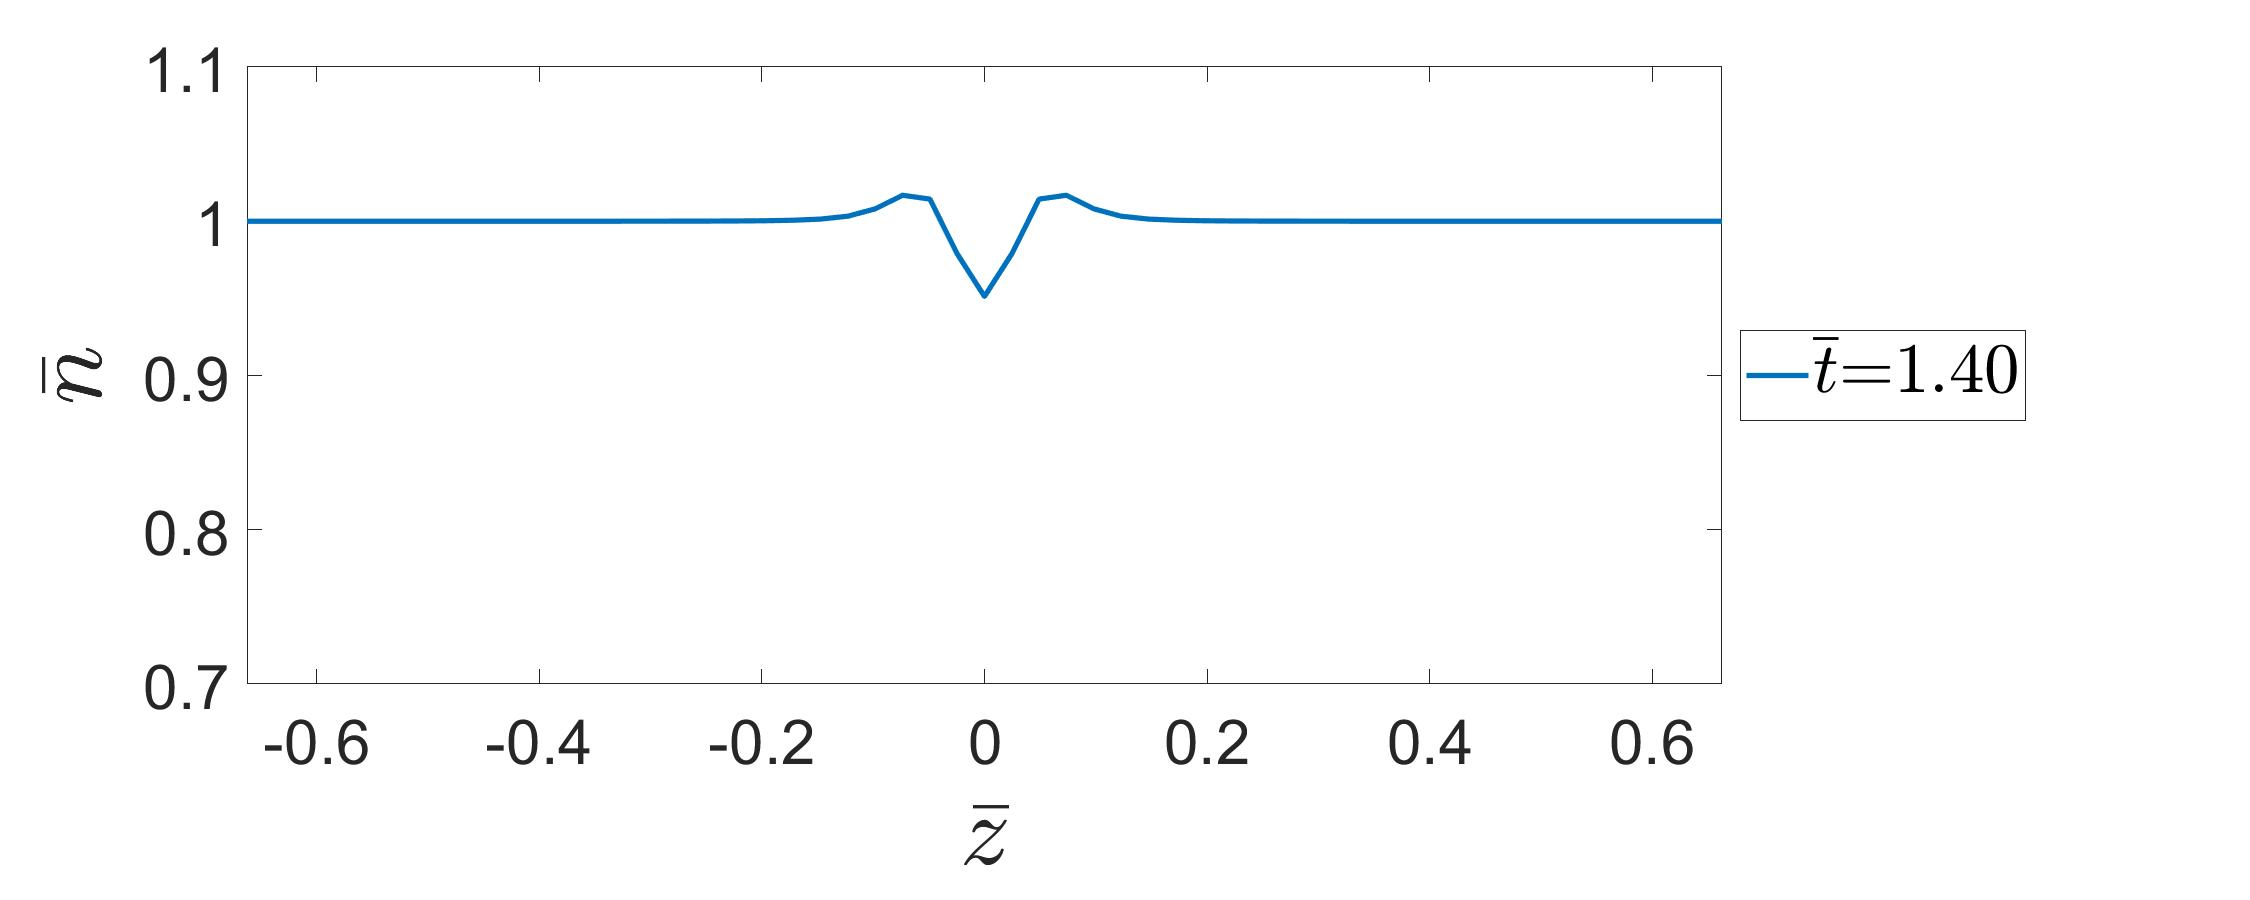
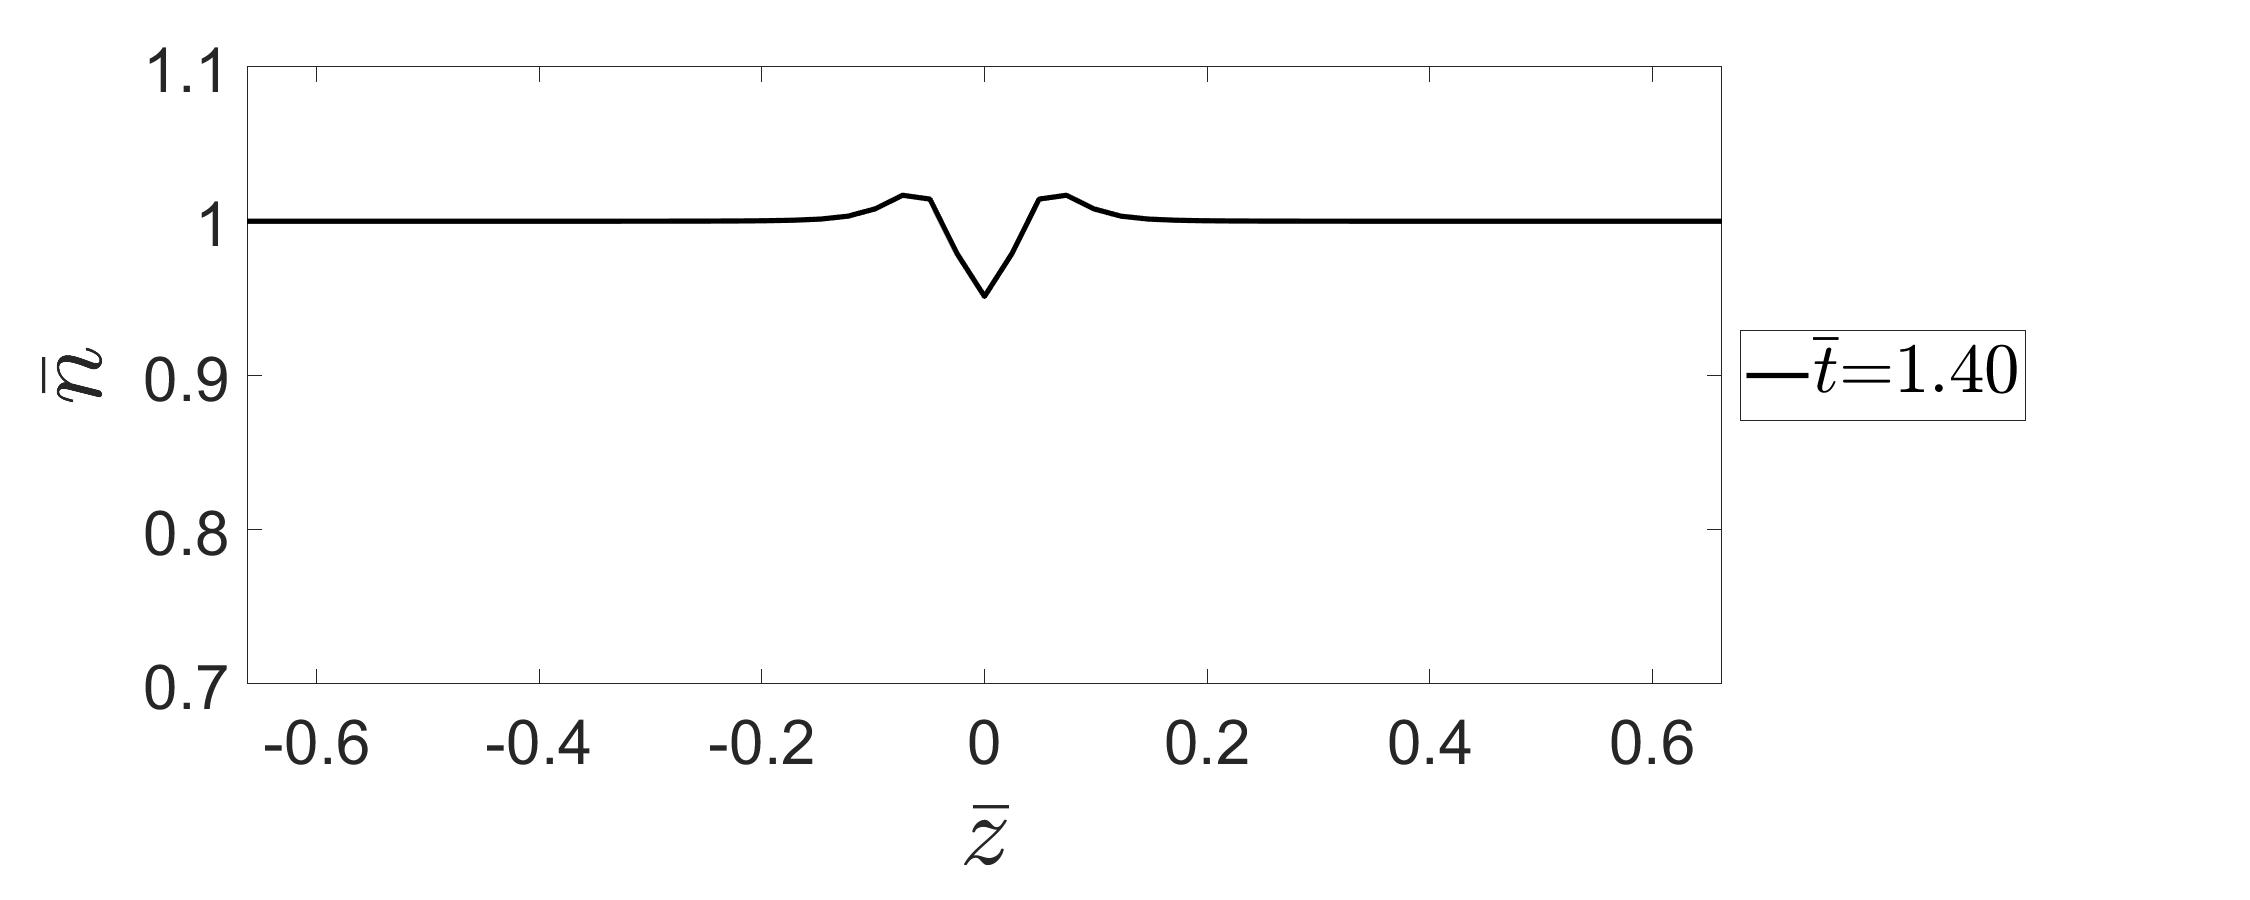
updated density animation

Changed region(s): [[0.0933, 0.2178, 0.7778, 0.3111], [0.7778, 0.4044, 0.8089, 0.4356]]

diff --git a/plot_function_single_time.m b/plot_function_single_time.m
@@ -21,7 +21,7 @@ function plot_function_single_time(variable,y_label,t_in,limy,y_lim)
 
     lw=2.5;
     temp_count=1;
-    plot(z(z_start:z_end),variable(t_in,z_start:z_end),'linewidth',lw,'color','magenta')
+    plot(z(z_start:z_end),variable(t_in,z_start:z_end),'linewidth',lw,'color','black')
     legendInfo{temp_count}=sprintf('$\\overline{t}$=%0.2f',(t_in-1)*dt); 
     if limy
         ylim(y_lim)

diff --git a/plot_animation.m b/plot_animation.m
@@ -2,8 +2,8 @@ T_list=round(1:M/15:M+1);
 T_list(end)=M;
 for t=T_list
     f = figure('visible','off');
-    plot_function_single_time(-u_e,'$|\bar{u}_e|$',t,true,[0,5.2])
-    formatSpec = "ue_%d.jpg";
+    plot_function_single_time(density,'$\bar{n}$',t,true,[0.7,1.1])
+    formatSpec = "density_%d.jpg";
     saveas(f,sprintf(formatSpec,t))
 end
 
